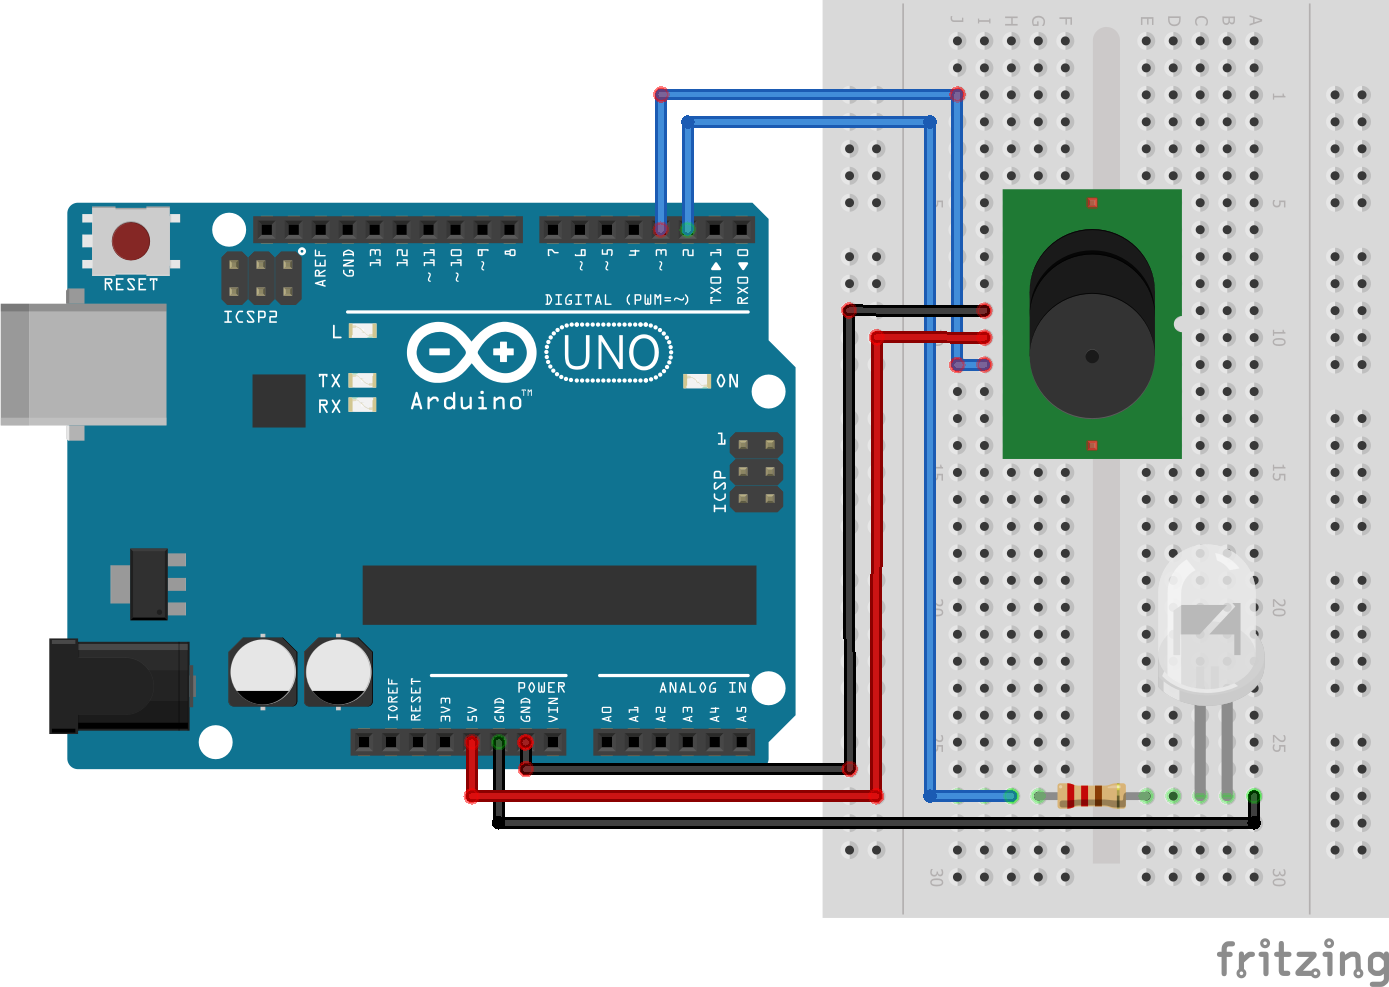
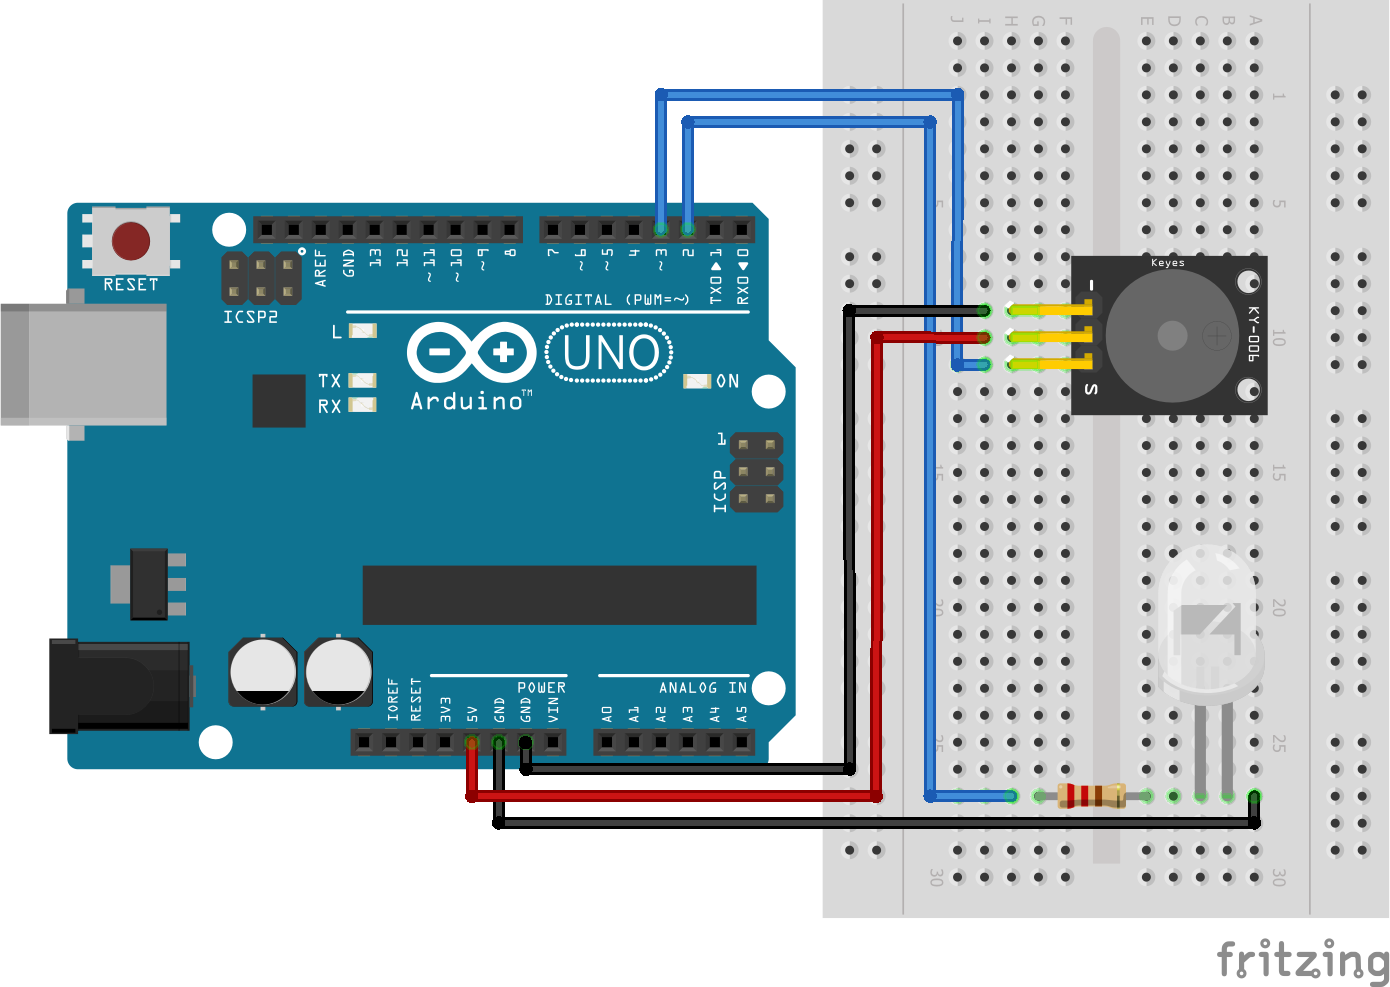
Used more accurate buzzer symbol in schematic
Therefore, I removed the symbol caution note from README.md because the new symbol accurately represents the buzzer.

diff --git a/README.md b/README.md
@@ -19,9 +19,6 @@ Next, open [morse_code_player.ino](morse_code_player/morse_code_player.ino) in t
 ## Schematic
 ![Schematic](https://github.com/Daniel-Ian-Robinson/Arduino-Morse-Code-Player/blob/main/Schematic/Schematic.png)
 
-*Note: The buzzer symbol is not accurate so inspect your buzzer carefully to ensure you connect the pins correctly.*
-
-
 ## Licence
 
 ![CC BY Licence](https://licensebuttons.net/l/by/3.0/88x31.png)
